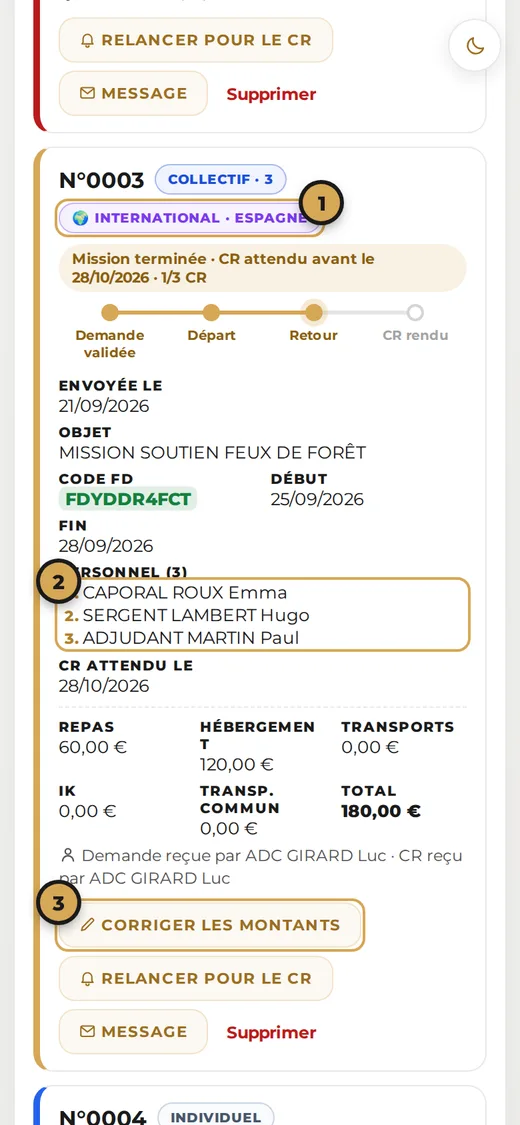
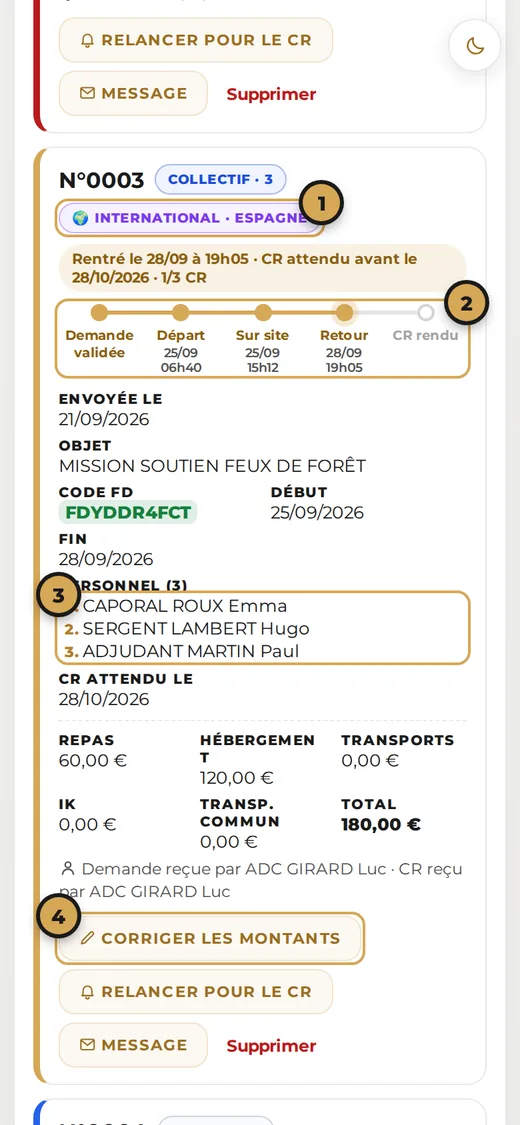
V162 : heures réelles de la mission dans le registre des OMR (#224)
* Registre : heures réelles de la mission (départ, sur site, retour) envoyées depuis Compte-rendu (en test)

Claude-Session: https://claude.ai/code/session_01NStkfCttCkWn8HaycQvLWX

* V162 : heures réelles de la mission dans le registre des OMR

- Compte-rendu envoie départ, arrivée sur site, départ du site et retour (mission partie d'une mise en route).
- Serveur : /api/registre/jalons, réservé au demandeur et aux personnes de la demande.
- Registre : frise en 5 étapes avec les heures réelles, étiquette en direct ; dates prévues sinon.
- Notice à jour. Suite complète : 594 vérifications.

Claude-Session: https://claude.ai/code/session_01NStkfCttCkWn8HaycQvLWX

---------

Changed region(s): [[0.0615, 0.2178, 0.9538, 1.0], [0.0615, 0.9333, 0.0923, 0.9956]]

diff --git a/notice/notice.js b/notice/notice.js
@@ -4,7 +4,7 @@
 // appli avec des personnages fictifs (notice/img), repères dorés ① ② ③ repris dans le texte.
 // {B} : chemin de la racine de TRIGONE (« ../ » depuis Compte-rendu).
 (function() {
-    var VERSION = 161;
+    var VERSION = 162;
     // Capture : un bouton, pour que le toucher l'agrandisse au lieu de tourner la page.
     function img(n) { return '<button type="button" class="n-capt" data-zoom="{B}notice/img/' + n + '.webp" aria-label="Agrandir la capture"><img src="{B}notice/img/' + n + '.webp" alt=""><i>⤢</i></button>'; }
     function r(n) { return '<span class="n-r">' + n + '</span>'; }
@@ -154,9 +154,9 @@
     ajouter(page('Mon espace', duo('40-chorus-choix', et(['Avec le rôle ASSIST CHORUS DT, l\'écran d\'accueil montre un 3<sup>e</sup> espace : ' + r(1) + ' <b>ASSIST CHORUS-DT</b>.', '<b>Mon espace</b> indique le nombre de demandes validées à traiter et de comptes-rendus reçus.', 'Touchez le logo pour ouvrir l\'espace.'])), 'chorus'));
     ajouter(page('L\'espace Chorus DT', duo('41-chorus-espace', et(['<b>Registre des OMR</b> : toutes les missions de l\'unité et où elles en sont.', r(1) + ' <b>Demandes de mise en route</b> : validées par les deux valideurs.', '<b>Comptes-rendus de mission</b> : envoyés au retour de mission.', '<b>Relever maintenant</b> : chercher tout de suite les nouveaux envois.'])), 'chorus'));
     ajouter(page('Traiter une demande', duo('42-chorus-dossier', et(['<b>Aperçu</b> : relire la demande.', '<b>Télécharger le PDF</b> : TRIGONE vérifie d\'abord les signatures et les pièces jointes, puis produit le PDF final (demande signée + NDS / DAF).', '<b>Contrôle détaillé</b> : le détail de la vérification.', '<b>Question</b> : demander une précision au missionnaire.', 'Créez l\'ordre de mission dans Chorus DT, puis marquez la demande <b>Traitée</b> : le missionnaire est prévenu.'])), 'chorus'));
-    ajouter(page('Registre des OMR', duo('43-registre', et(['Un seul tableau : <b>toutes les missions</b> de l\'unité, dans l\'ordre des n° OMR, avec des filtres d\'étape (À venir, En cours, CR attendu, En retard, CR rendus).', r(1) + ' <b>⛶ Plein écran</b> : le tableau sur tout l\'écran.', r(2) + ' <b>Rechercher</b> (n° OMR, objet, nom, code FD), codes FD <b>de votre unité</b> ou non, <b>période</b>. Code FD <b style="color:#15803d">vert</b> : votre unité ; <b style="color:#a16207">jaune</b> : une autre.', r(3) + ' La <b>frise</b> : demande validée → départ → retour → <b>CR rendu</b>. Départ et retour suivent les <b>dates de la demande</b> ; CR rendu, l\'arrivée du compte-rendu.', r(4) + ' <b>Relancer pour le CR</b> : un rappel dans la boîte du missionnaire.'])) +
+    ajouter(page('Registre des OMR', duo('43-registre', et(['Un seul tableau : <b>toutes les missions</b> de l\'unité, dans l\'ordre des n° OMR, avec des filtres d\'étape (À venir, En cours, CR attendu, En retard, CR rendus).', r(1) + ' <b>⛶ Plein écran</b> : le tableau sur tout l\'écran.', r(2) + ' <b>Rechercher</b> (n° OMR, objet, nom, code FD), codes FD <b>de votre unité</b> ou non, <b>période</b>. Code FD <b style="color:#15803d">vert</b> : votre unité ; <b style="color:#a16207">jaune</b> : une autre.', r(3) + ' La <b>frise</b> : demande validée → départ → sur site → retour → <b>CR rendu</b>, avec les <b>heures réelles</b> quand le missionnaire horodate dans Compte-rendu (sinon, les dates prévues).', r(4) + ' <b>Relancer pour le CR</b> : un rappel dans la boîte du missionnaire.'])) +
         savoir('Le registre est <b>commun à tous les assistants Chorus DT de l\'unité</b> et se met à jour <b>tout seul toutes les 30 s</b> : chacun voit la même chose, avec « reçu par ».'), 'chorus'));
-    ajouter(page('Registre : collectif, international, montants', duo('44-registre-collectif', et(['À côté du n° OMR : <b>INDIVIDUEL</b>, <b>COLLECTIF · n</b> (nombre de personnes) et ' + r(1) + ' <b>🌍 INTERNATIONAL</b> avec le pays, si la mission part à l\'étranger.', r(2) + ' Mission collective : le <b>personnel</b>, un nom par ligne.', 'Montants repris du compte-rendu. ' + r(3) + ' <b>✏ Corriger les montants</b> : la correction vaut pour tous les assistants ; montant corrigé en doré, total recalculé.', 'En bas : <b>total par rubrique</b> (repas, hébergement, transports, IK…) et <b>PDF de cette liste</b> (filtres compris).'])) +
+    ajouter(page('Registre : collectif, international, montants', duo('44-registre-collectif', et(['À côté du n° OMR : <b>INDIVIDUEL</b>, <b>COLLECTIF · n</b> et ' + r(1) + ' <b>🌍 INTERNATIONAL</b> avec le pays.', r(2) + ' En direct : <b>départ, arrivée sur site, retour</b> à l\'heure près, dès que le missionnaire appuie dans Compte-rendu (« Sur site depuis… », « Rentré le… »).', r(3) + ' Mission collective : le <b>personnel</b>, un nom par ligne.', r(4) + ' <b>✏ Corriger les montants</b> : la correction vaut pour tous les assistants ; montant corrigé en doré, total recalculé.', 'En bas : <b>total par rubrique</b> (repas, hébergement, transports, IK…) et <b>PDF de cette liste</b> (filtres compris).'])) +
         astuce('« Revenir aux montants du CR » annule une correction. Le compte-rendu reçu, lui, n\'est jamais modifié.'), 'chorus'));
     ajouter(page('Comptes-rendus reçus', duo('77-registre-cr', et(['Le compte-rendu arrive dans <b>Comptes-rendus de mission</b>, avec ses justificatifs.', '<b>PDF complet</b> : le compte-rendu et tous ses justificatifs à la suite, en un seul PDF.', 'Dans le registre, la ligne passe à <b>« Validé — CR rendu »</b> (frise en vert), avec repas, hébergement, transports, IK et total.', 'Marquez-le <b>Traité</b> : le missionnaire est prévenu.'])), 'chorus'));
 
@@ -170,7 +170,7 @@
     ajouter(page('Top départ', duo('63-cr-depart-top', et(['Tout est renseigné : au moment de partir, ' + r(1) + ' touchez <b>Départ en mission</b>.', 'L\'heure exacte est enregistrée (horodatage).', 'Déjà parti ? <b>« Vous êtes déjà parti ? Corriger l\'heure de départ »</b>.'])) +
         attention('Appuyez <b>au moment réel</b> du départ : les droits (repas, nuits) sont calculés à partir des horodatages.'), 'cr'));
     ajouter(page('Pendant la mission', duo('64-cr-mission-en-cours', et(['Écran <b>Mission en cours</b> : votre identité et l\'heure de départ.', r(1) + ' À l\'arrivée, touchez <b>Arrivée sur site</b>.', r(2) + ' Puis, au départ du site, touchez <b>Je quitte le site</b>.', r(3) + ' Oublié d\'appuyer ? <b>« Cliquer ici »</b> pour saisir l\'heure réelle.'])) +
-        savoir('Pas besoin de réseau. Avec la montre connectée, un appui sur la montre horodate l\'étape suivante.'), 'cr'));
+        savoir('Pas besoin de réseau. Mission partie d\'une mise en route : vos heures de départ, d\'arrivée sur site et de retour s\'affichent <b>dans le registre de l\'assistant Chorus DT</b> (dès que le réseau revient).'), 'cr'));
     ajouter(page('Je quitte le site', duo('66-cr-choix-depart', et(['Touchez <b>Je quitte le site</b> : l\'heure de départ est enregistrée.', '<b>Vers une autre destination</b> : une nouvelle mission s\'enchaîne (mission en plusieurs étapes).', '<b>Retour définitif — fin de mission</b> : vous rentrez.', 'À l\'arrivée chez vous, touchez <b>Arrivée finale</b> : l\'horodatage est terminé.'])), 'cr'));
     ajouter(page('Frais — repas et hébergement', duo('67-cr-frais-repas', et(['Écran <b>Frais de mission</b>, onglet <b>Repas & hébergement</b>, à remplir chez vous, sans limite de temps.', '<b>Repas midi / soir</b> : avec <b>−</b> et <b>+</b>, le nombre de repas <b>payants</b> (le maximum autorisé est indiqué).', '<b>Hébergement</b>, nuit par nuit : <b>Gratuit</b>, <b>Demande de réservation</b> ou <b>Payant</b>.', 'Le <b>total forfait estimé</b> se met à jour.'])), 'cr'));
     ajouter(page('Frais — trajets et validation', duo('67-cr-frais-recap', et(['Onglet <b>Trajets</b> : billets (horaires des gares, aéroports), indemnités kilométriques (la distance se calcule toute seule), transports en commun.', 'Onglet <b>Récap & valider</b> : durée, période, transports, repas, hébergement.', 'Touchez <b>Valider et voir le récap</b>.'])), 'cr'));

diff --git a/app.js b/app.js
@@ -1,7 +1,7 @@
 // ===================== TRIGONE MISE EN ROUTE — logique =====================
 var MER_VERSION = 1;          // version du format des fichiers .json échangés
 // Version du code de l'appli : à augmenter à chaque publication, avec « appCodeVersion » dans updates-manifest.json.
-var APP_CODE_VERSION = 209;
+var APP_CODE_VERSION = 210;
 // Numéro de version affiché (« V1 », « V2 »…) : repart de 1 au lancement de TRIGONE jumelé et suit ensuite chaque
 // publication. APP_CODE_VERSION reste le compteur interne des mises à jour (ne jamais le faire redescendre).
 var APP_VERSION_AFFICHEE = APP_CODE_VERSION - 48;
@@ -3830,22 +3830,42 @@ function MER_REG_ATTENDUS(x) { return Math.max(1, (x.personnes || []).length); }
 function MER_REG_RENDU(x) { return x.sansDemande || (x.crs || []).length >= MER_REG_ATTENDUS(x); }
 // Étape de la mission, ligne par ligne : à venir → en cours → CR attendu (ou en retard) → validé, CR rendu.
 function MER_REG_DATE(v, finJour) { if (!v) return null; var d = new Date(v); if (isNaN(d)) return null; if (finJour && !d.getHours() && !d.getMinutes()) d.setHours(23, 59, 59); return d; }
+// Heures réelles envoyées par le missionnaire depuis Compte-rendu (« 10/10/2026 07:42:00 ») : x.jalons.depart, surSite,
+// departSite, retour. Date, ou null.
+function MER_REG_JALON(x, k) {
+    var v = (x.jalons || {})[k], m = /^(\d{2})\/(\d{2})\/(\d{4})[ ,]+(\d{1,2}):(\d{2})/.exec(String(v || ''));
+    return m ? new Date(+m[3], +m[2] - 1, +m[1], +m[4], +m[5]) : null;
+}
+function MER_REG_QUAND(d) { return ('0' + d.getDate()).slice(-2) + '/' + ('0' + (d.getMonth() + 1)).slice(-2) + ' à ' + ('0' + d.getHours()).slice(-2) + 'h' + ('0' + d.getMinutes()).slice(-2); }
 function MER_REG_ETAT(x) {
     var n = (x.crs || []).length, att = MER_REG_ATTENDUS(x);
     if (MER_REG_RENDU(x)) return { cls: 'ok', txt: '✔ Validé — CR rendu' + (n > 1 ? 's' : '') };
     var ech = MER_REG_ECHEANCE(x), maint = new Date(), deb = MER_REG_DATE(x.debut), fin = MER_REG_DATE(x.fin, true);
     var part = n ? ' · ' + n + '/' + att + ' CR' : '';
+    // Heures réelles d'abord : parti mais pas rentré = en cours, quelles que soient les dates prévues.
+    var dr = MER_REG_JALON(x, 'depart'), rr = MER_REG_JALON(x, 'retour'), sr = MER_REG_JALON(x, 'surSite'), qr = MER_REG_JALON(x, 'departSite');
+    if (dr && !rr) return { cls: 'encours', txt: (qr ? 'Retour en route · parti du site le ' + MER_REG_QUAND(qr) : sr ? 'Sur site depuis le ' + MER_REG_QUAND(sr) : 'Mission en cours · parti le ' + MER_REG_QUAND(dr)) + part };
+    if (rr) {
+        if (ech && maint > ech) return { cls: 'retard', txt: '⚠ En retard (depuis le ' + ech.toLocaleDateString('fr-FR') + ')' + part };
+        return { cls: 'attente', txt: 'Rentré le ' + MER_REG_QUAND(rr) + ' · CR attendu' + (ech ? ' avant le ' + ech.toLocaleDateString('fr-FR') : '') + part };
+    }
     if (deb && maint < deb) return { cls: 'avenir', txt: 'Mission à venir · départ le ' + deb.toLocaleDateString('fr-FR') + part };
     if (fin && maint <= fin) return { cls: 'encours', txt: 'Mission en cours · retour le ' + fin.toLocaleDateString('fr-FR') + part };
     if (ech && maint > ech) return { cls: 'retard', txt: '⚠ En retard (depuis le ' + ech.toLocaleDateString('fr-FR') + ')' + part };
     return { cls: 'attente', txt: 'Mission terminée · CR attendu' + (ech ? ' avant le ' + ech.toLocaleDateString('fr-FR') : '') + part };
 }
 // Frise de la ligne : demande validée, départ, retour, compte-rendu rendu.
+// Avec les heures réelles du missionnaire (Compte-rendu) : départ, sur site, retour suivent ses appuis, heure affichée.
+// Sans elles : départ et retour suivent les dates prévues de la demande.
 function MER_REG_FRISE(x, e) {
-    var maint = new Date(), deb = MER_REG_DATE(x.debut), fin = MER_REG_DATE(x.fin, true);
-    var etapes = [['Demande validée', true], ['Départ', e.cls === 'ok' || (deb && maint >= deb)], ['Retour', e.cls === 'ok' || (fin && maint > fin)], ['CR rendu', e.cls === 'ok']];
+    var maint = new Date(), deb = MER_REG_DATE(x.debut), fin = MER_REG_DATE(x.fin, true), ok = e.cls === 'ok';
+    var J = { depart: MER_REG_JALON(x, 'depart'), surSite: MER_REG_JALON(x, 'surSite'), departSite: MER_REG_JALON(x, 'departSite'), retour: MER_REG_JALON(x, 'retour') }, reel = !!J.depart;
+    var etapes = reel ? [['Demande validée', true], ['Départ', true, J.depart], ['Sur site', !!(J.surSite || J.departSite || J.retour) || ok, J.surSite], ['Retour', !!J.retour || ok, J.retour], ['CR rendu', ok]]
+        : [['Demande validée', true], ['Départ', ok || (deb && maint >= deb)], ['Sur site', ok || (deb && maint >= deb)], ['Retour', ok || (fin && maint > fin)], ['CR rendu', ok]];
     var courante = -1; etapes.forEach(function(t, i) { if (t[1]) courante = i; });
-    return '<div class="MER-REG-FRISE ' + e.cls + '">' + etapes.map(function(t, i) { return '<span class="' + (t[1] ? 'fait' : '') + (i === courante ? ' ici' : '') + '"><i></i>' + t[0] + '</span>'; }).join('') + '</div>';
+    return '<div class="MER-REG-FRISE ' + e.cls + (reel ? ' reel' : '') + '"' + (reel ? '' : ' title="Départ et retour d\'après les dates prévues de la demande"') + '>' + etapes.map(function(t, i) {
+        return '<span class="' + (t[1] ? 'fait' : '') + (i === courante ? ' ici' : '') + '"><i></i>' + t[0] + (t[2] ? '<em>' + MER_REG_QUAND(t[2]).replace(' à ', '<br>') + '</em>' : '') + '</span>';
+    }).join('') + '</div>' + (reel ? '' : (e.cls === 'encours' ? '<p class="MER-HINT MER-REG-PREVU">Étapes d\'après les dates prévues : le missionnaire n\'a pas encore horodaté sa mission dans Compte-rendu.</p>' : ''));
 }
 // Montants d'une ligne : somme de ses comptes-rendus, puis corrections de l'assistant Chorus DT (x.corriges, communes à
 // tous les assistants ; le total est alors recalculé). brut : montants des comptes-rendus, sans les corrections.

diff --git a/tests/test-registre.js b/tests/test-registre.js
@@ -160,6 +160,17 @@ module.exports = async function() {
     await c2.evaluate(() => JUMELAGE_REGISTRE_SYNCHRO()); await attendre(1500);
     const reg2 = await c2.evaluate(p => JUMELAGE_REGISTRE().filter(x => String(x.omr).indexOf(p) === 0), pref);
     verifier(reg2.length === 1 && reg2[0].ref === d.id && (reg2[0].crs || []).length === 1 && !!reg2[0].recuPar, '2e assistant : même registre (ligne et CR reçus par le 1er ; ligne supprimée absente)');
+    // Heures réelles de la mission, envoyées par le missionnaire depuis Compte-rendu → registre des assistants, en direct.
+    const jal = { depart: '10/09/2026 07:42:00', surSite: '10/09/2026 11:05:00', departSite: '', retour: '' };
+    await m.evaluate(([o, r, j]) => JUMELAGE_JALONS(o, r, j), [d.omr, d.id, jal]); await attendre(800);
+    verifier(await m.evaluate(() => !JSON.parse(localStorage.getItem('trigone_jalons_file') || '{}') || !Object.keys(JSON.parse(localStorage.getItem('trigone_jalons_file') || '{}')).length), 'missionnaire : heures de départ et d\'arrivée sur site envoyées au registre');
+    await c2.evaluate(() => JUMELAGE_REGISTRE_SYNCHRO()); await attendre(1200);
+    const live = await c2.evaluate(r => { const x = JUMELAGE_REGISTRE().find(y => y.ref === r); const f = MER_REG_FRISE(x, MER_REG_ETAT(x)); return { j: (x.jalons || {}).surSite, f: f }; }, d.id);
+    verifier(live.j === jal.surSite && /Sur site/.test(live.f) && /10\/09<br>07h42/.test(live.f) && /10\/09<br>11h05/.test(live.f), 'assistant : la frise montre l\'heure réelle du départ et de l\'arrivée sur site');
+    verifier(await c2.evaluate(() => { const e = MER_REG_ETAT({ personnes: [{}], jalons: { depart: '10/10/2026 07:42:00', surSite: '10/10/2026 11:05:00' } }); return e.cls === 'encours' && /Sur site depuis le 10\/10 à 11h05/.test(e.txt); }), 'assistant : « Sur site depuis le … » tant que le missionnaire n\'est pas reparti');
+    const refusJ = await c2.evaluate(([o, r]) => { localStorage.removeItem('trigone_jalons_file'); return JUMELAGE_JALONS(o, r, { depart: '01/01/2026 00:00:00' }).then(() => JSON.parse(localStorage.getItem('trigone_jalons_file') || '{}')); }, [d.omr, d.id]);
+    await c2.evaluate(() => JUMELAGE_REGISTRE_SYNCHRO()); await attendre(1000);
+    verifier(!Object.keys(refusJ).length && await c2.evaluate(r => (JUMELAGE_REGISTRE().find(y => y.ref === r).jalons || {}).depart, d.id) === jal.depart, 'heures refusées à un compte qui n\'est pas sur la demande');
     verifier(await c2.evaluate(r => { const x = JUMELAGE_REGISTRE().find(y => y.ref === r); return MER_REG_MONTANTS(x).total === 252.3 && MER_REG_MONTANTS(x, true).total === 247.8; }, d.id), '2e assistant : voit la correction des montants du 1er (total corrigé)');
     await c2.evaluate(r => REGISTRE_CORRIGER_OK(r, true), d.id); await attendre(300);
     await c2.evaluate(() => JUMELAGE_REGISTRE_SYNCHRO()); await attendre(800);
@@ -207,6 +218,11 @@ module.exports = async function() {
     await m.evaluate(() => { document.querySelectorAll('.JUM-CHOIX,.JUM-NOUV').forEach(e => e.remove()); document.documentElement.classList.remove('jum-choix'); });
     verifier(await m.evaluate(x => { APPLIQUER_MISE_EN_ROUTE(x); return M.OMR === x.omr && M.MER_REF === x.id; }, d), 'Compte-rendu « À partir d\'une mise en route » : n° OMR et demande repris');
     verifier(await m.evaluate(() => { const o = MONTANTS_CR(M); return typeof o.total === 'number' && 'ik' in o && 'repas' in o; }), 'Compte-rendu : montants envoyés avec le CR (repas, hébergement, transports, IK, total)');
+    // Appui « Départ » dans Compte-rendu : l'heure part vers le registre (file d'envoi, renvoyée au prochain relevé).
+    const fileJ = await m.evaluate(() => { localStorage.removeItem('trigone_jalons_sig'); const av = window.JUMELAGE_JALONS; let vu = null; window.JUMELAGE_JALONS = (o, r, j) => { vu = { o, r, j }; return Promise.resolve(); };
+        const m0 = { OMR: M.OMR, MER_REF: M.MER_REF, DEBUT: M.DEBUT }; M.OMR = 'T-0001'; M.MER_REF = 'ref-test'; M.DEBUT = '10/10/2026 07:42:00'; JALONS_REGISTRE(); const deux = vu; vu = null; JALONS_REGISTRE();
+        Object.assign(M, m0); window.JUMELAGE_JALONS = av; return { deux, encore: vu }; });
+    verifier(fileJ.deux && fileJ.deux.o === 'T-0001' && fileJ.deux.j.depart === '10/10/2026 07:42:00' && fileJ.encore === null, 'Compte-rendu : l\'heure de départ est envoyée au registre, une seule fois tant qu\'elle ne change pas');
     verifier(!erreurs.length, 'aucune erreur JavaScript' + (erreurs.length ? ' : ' + erreurs.join(' | ') : ''));
     await b.close();
 };

diff --git a/jumelage.js b/jumelage.js
@@ -1018,7 +1018,7 @@
     // Dès l'ouverture (démarrage ou retour dans l'appli), TRIGONE vérifie s'il existe une publication plus récente
     // et se met à jour tout seul. Jamais au mauvais moment : uniquement sur l'accueil, sans fenêtre ouverte
     // (chaque appli le dit via JUMELAGE_PEUT_RECHARGER) ; sinon au prochain retour sur l'accueil.
-    var BUILD = 162, MAJ_DISPO = false, CLE_RECHARGE = 'trigone_recharge_build';
+    var BUILD = 163, MAJ_DISPO = false, CLE_RECHARGE = 'trigone_recharge_build';
     function peutRecharger() {
         if (document.visibilityState === 'hidden') return false;
         if (document.body && document.body.classList.contains('demo-active')) return false;
@@ -3312,6 +3312,27 @@
         }, Promise.resolve());
     }
     window.JUMELAGE_REGISTRE = function() { return registreLire(); };
+    // Heures réelles d'une mission (Compte-rendu : départ, arrivée sur site, départ du site, retour) envoyées au registre
+    // des assistants Chorus DT. Sans réseau ou demande pas encore au registre : gardées et renvoyées au prochain relevé.
+    var CLE_JALONS = 'trigone_jalons_file', jalonsEnCours = null;
+    window.JUMELAGE_JALONS = function(omr, mref, jalons) {
+        if (omr || mref) { var f = lireJSON(CLE_JALONS) || {}; f[omr || mref] = { omr: omr || '', mref: mref || '', jalons: jalons || {}, le: Date.now() }; ecrireTxt(CLE_JALONS, JSON.stringify(f)); }
+        if (!monCompte() || !navigator.onLine) return Promise.resolve(false);
+        if (jalonsEnCours) return jalonsEnCours.then(function() { return window.JUMELAGE_JALONS(); });
+        var f0 = lireJSON(CLE_JALONS) || {}, cles = Object.keys(f0);
+        jalonsEnCours = cles.reduce(function(suite, k) {
+            return suite.then(function() {
+                var x = f0[k];
+                return appelApi('registre/jalons', { methode: 'POST', corps: { omr: x.omr, mref: x.mref, jalons: x.jalons } }).then(function(r) {
+                    // Envoyé (ou mission plus au registre depuis 60 jours) : retiré de la file, s'il n'a pas changé entre-temps.
+                    if (r.ok || Date.now() - x.le > 60 * 86400000) { var f = lireJSON(CLE_JALONS) || {}; if (f[k] && f[k].le === x.le) { delete f[k]; ecrireTxt(CLE_JALONS, JSON.stringify(f)); } }
+                }, function(e) {
+                    if (e && e.statut === 403) { var f = lireJSON(CLE_JALONS) || {}; delete f[k]; ecrireTxt(CLE_JALONS, JSON.stringify(f)); }
+                });
+            });
+        }, Promise.resolve()).then(function() { jalonsEnCours = null; return true; });
+        return jalonsEnCours;
+    };
     window.JUMELAGE_REGISTRE_MAJ = function(ref, maj) {
         var l = registreLire();
         if (maj === null) l = l.filter(function(y) { return y.ref !== ref; });
@@ -3447,6 +3468,7 @@
             releveEnCours = null;
             window.JUMELAGE_REGISTRE_SYNCHRO();   // registre OMR commun aux assistants Chorus DT
             window.JUMELAGE_BOITE_ETATS();        // envois déjà traités sur un autre de mes appareils
+            if (lireTxt(CLE_JALONS).length > 2) window.JUMELAGE_JALONS();   // heures de mission en attente d'envoi
             if (releveARefaire) { releveARefaire = false; return window.JUMELAGE_RELEVER().then(function(m) { return n + m; }); }
             return n;
         });

diff --git a/worker.js b/worker.js
@@ -106,6 +106,9 @@ function registreFusion(a, b) {
     r.crs = registreUnirCrs(a.crs, b.crs);
     r.relances = Array.from(new Set((a.relances || []).concat(b.relances || []))).sort((x, y) => x - y);
     r.relancesQui = Object.assign({}, a.relancesQui || {}, b.relancesQui || {});
+    // Heures réelles de la mission (départ, sur site, départ du site, retour) : envoyées par le missionnaire lui-même ;
+    // la version du serveur l'emporte sur la copie d'un assistant.
+    if (a.jalons || b.jalons) r.jalons = Object.assign({}, b.jalons || {}, a.jalons || {});
     if (a.omr) r.omr = a.omr;
     return r;
 }
@@ -956,6 +959,32 @@ async function api(requete, env, url, ctx) {
         const r = (await db.prepare('SELECT ref, donnees, maj, supprime, par FROM registre WHERE unite = ? AND maj >= ? ORDER BY maj LIMIT 2000').bind(u, depuis).all()).results || [];
         return json({ ok: true, lignes: r.map(x => ({ ref: x.ref, supprime: !!x.supprime, par: x.par, maj: x.maj, ligne: x.supprime ? null : JSON.parse(x.donnees || '{}') })),
             dernier: r.reduce((m, x) => Math.max(m, x.maj), depuis) });
+    }
+    // Heures réelles de sa mission, envoyées par le missionnaire depuis Compte-rendu (appuis Départ, Arrivée sur site,
+    // Départ du site, Retour) : { omr, mref, jalons: { depart, surSite, departSite, retour } }. Seuls le demandeur et
+    // les personnes de la demande (matricule rattaché à leur compte) peuvent les donner.
+    if (chemin === 'registre/jalons' && methode === 'POST') {
+        const c = await requete.json().catch(() => ({}));
+        const omr = String(c.omr || '').slice(0, 30), mref = String(c.mref || '').slice(0, 64);
+        if (!omr && !mref) return erreur(400, 'Mission inconnue.');
+        const db = await baseBoite(env), u = UNITE_REGISTRE;
+        const ligne = await db.prepare("SELECT * FROM registre WHERE unite = ? AND supprime = 0 AND ((? <> '' AND omr = ?) OR (? <> '' AND (ref = ? OR mref = ?))) ORDER BY maj DESC LIMIT 1")
+            .bind(u, omr, omr, mref, mref, mref).first();
+        if (!ligne) return json({ ok: false, attente: true });   // demande pas encore au registre : l'appli réessaiera
+        const d = JSON.parse(ligne.donnees || '{}');
+        let autorise = d.mailDemandeur === moi.mail;
+        for (const p of (d.personnes || [])) {
+            if (autorise) break;
+            const nid = chiffresNid(p.nid);
+            if (nid && await kv.get('nid:' + await empreinteNid(env, nid)) === moi.mail) autorise = true;
+        }
+        if (!autorise) return erreur(403, 'Cette mission n\'est pas la vôtre.');
+        const j = {};
+        ['depart', 'surSite', 'departSite', 'retour'].forEach(k => { const v = String((c.jalons || {})[k] || '').slice(0, 30); if (/^[\d\/: ,.-]+$/.test(v)) j[k] = v; });
+        d.jalons = Object.assign({}, d.jalons || {}, j);
+        const le = Date.now();
+        await registreEcrireLigne(db, u, d, le, moi.mail);
+        return json({ ok: true });
     }
     // Remise à zéro du registre (assistant Chorus DT) : toutes les lignes marquées supprimées (les autres assistants les
     // retirent à leur prochaine relève), et la numérotation OMR repart à 0001 sans préfixe.

diff --git a/cr/index.html b/cr/index.html
@@ -11,7 +11,7 @@
 <link rel="manifest" href="../manifest.json">
 <meta name="apple-mobile-web-app-title" content="TRIGONE">
 <meta name="application-name" content="TRIGONE">
-<script src="../jumelage.js?v=162"></script>
+<script src="../jumelage.js?v=163"></script>
 <link rel="icon" type="image/png" sizes="192x192" href="icon-192.png?v=3">
 <link rel="apple-touch-icon" href="apple-touch-icon.png?v=3">
 <link href="../fonts/montserrat.css" rel="stylesheet"><!-- police hébergée avec TRIGONE : identique hors ligne -->
@@ -7279,6 +7279,16 @@ window.JUMELAGE_PEUT_RECHARGER = function() {
     var visible = function(id) { var el = document.getElementById(id); return el && !el.classList.contains('HIDDEN'); };
     return visible('P0') && ECRAN_LIBRE() && !visible('PIN-OVERLAY') && !visible('MER-LISTE-OVERLAY') && !DEMO_MODE_ACTIF;
 };
+// Heures réelles de la mission (départ, arrivée sur site, départ du site, retour) → registre des assistants Chorus DT,
+// pour une mission partie d'une mise en route (n° OMR ou référence de la demande). Envoyées à chaque changement.
+function JALONS_REGISTRE() {
+    if (DEMO_MODE_ACTIF || M.IS_PAX || !window.JUMELAGE_JALONS || !(M.OMR || M.MER_REF)) return;
+    var j = { depart: M.DEBUT || '', surSite: M.ARR_SITE || '', departSite: M.DEP_SITE || '', retour: M.FIN_RETOUR_HORODATE || '' };
+    if (!j.depart) return;
+    var sig = (M.OMR || M.MER_REF) + '|' + [j.depart, j.surSite, j.departSite, j.retour].join('|');
+    try { if (localStorage.getItem('trigone_jalons_sig') === sig) return; localStorage.setItem('trigone_jalons_sig', sig); } catch (e) {}
+    window.JUMELAGE_JALONS(M.OMR || '', M.MER_REF || '', j);
+}
 function SAVE_STATE() {
     // Filet de sécurité absolu : pendant la démonstration, M contient des données d'exemple, jamais
     // les vraies. Tant que ce drapeau est actif, aucune écriture ne doit atteindre le stockage réel.
@@ -7289,6 +7299,7 @@ function SAVE_STATE() {
     // visibilitychange au moment du rechargement qui suit. Sans ce garde-fou, la mission tout juste
     // effacée réapparaissait après le rechargement, ramenant le missionnaire sur l'écran d'envoi.
     if (MISSION_FERMETURE_EN_COURS) return;
+    try { JALONS_REGISTRE(); } catch (e) {}
     try {
         if (HAS_ACTIVE_MISSION_DATA(M)) {
             localStorage.setItem('mission_data', JSON.stringify(CLONE_M_FOR_STORAGE(M)));
@@ -11511,7 +11522,7 @@ function SET_UPDATE_SEEN_VERSION(cle, version) {
 // Numéro de version du code de CETTE appli. À augmenter à chaque publication, en même temps que
 // « appCodeVersion » dans updates-manifest.json : c'est ce qui permet à l'appli de savoir si elle est
 // déjà à jour (elle affiche alors les « Nouveautés ») ou en retard (elle demande la mise à jour).
-var APP_CODE_VERSION = 259;
+var APP_CODE_VERSION = 260;
 // Jumelage : numéro affiché « V1, V2… » ; APP_CODE_VERSION reste le compteur interne des mises à jour
 // (à augmenter avec appCodeVersion de cr/updates-manifest.json, sans jamais le faire redescendre).
 var APP_VERSION_AFFICHEE = APP_CODE_VERSION - 98;

diff --git a/index.html b/index.html
@@ -5,7 +5,7 @@
 <meta name="viewport" content="width=device-width, initial-scale=1, viewport-fit=cover">
 <title>TRIGONE — Mise en route</title>
 <link rel="manifest" href="manifest.json">
-<script src="jumelage.js?v=162"></script>
+<script src="jumelage.js?v=163"></script>
 <meta name="theme-color" content="#ecebe7">
 <link href="fonts/montserrat.css" rel="stylesheet"><!-- police hébergée avec TRIGONE : identique hors ligne -->
 <link rel="apple-touch-icon" href="apple-touch-icon.png?v=3">
@@ -542,6 +542,9 @@ body.dark-mode .MER-FD-UNITE.unite { color: #4ade80; } body.dark-mode .MER-FD-UN
 .MER-REG-FRISE i { position: absolute; top: 1px; left: 50%; width: 13px; height: 13px; margin-left: -6.5px; border-radius: 50%; background: #fff; border: 2.5px solid #d4d4d4; z-index: 1; box-sizing: border-box; }
 .MER-REG-FRISE span.fait { color: #8a5f12; } .MER-REG-FRISE span.fait::before { background: #d6a756; } .MER-REG-FRISE span.fait i { background: #d6a756; border-color: #d6a756; }
 .MER-REG-FRISE span.ici i { box-shadow: 0 0 0 4px rgba(214,167,86,0.25); }
+.MER-REG-FRISE em { display: block; font-style: normal; font-weight: 600; font-size: 0.92em; color: #525252; margin-top: 1px; white-space: nowrap; }
+body.dark-mode .MER-REG-FRISE em { color: #bdbdbd; }
+.MER-REG-PREVU { margin: -8px 0 10px !important; font-size: 0.7rem !important; font-style: italic; }
 .MER-REG-FRISE.ok span.fait { color: #15803d; } .MER-REG-FRISE.ok span.fait::before, .MER-REG-FRISE.ok span.fait i { background: #15803d; border-color: #15803d; }
 .MER-REG-FRISE.retard span.ici i { background: #b91c1c; border-color: #b91c1c; box-shadow: 0 0 0 4px rgba(185,28,28,0.2); } .MER-REG-FRISE.retard span.ici { color: #b91c1c; }
 .MER-REG-FRISE.encours span.ici i { background: #2563eb; border-color: #2563eb; box-shadow: 0 0 0 4px rgba(37,99,235,0.2); } .MER-REG-FRISE.encours span.ici { color: #1d4ed8; }
@@ -1023,6 +1026,6 @@ body.dark-mode .MER-BASCULE-ROLE { background: rgba(255,255,255,0.08); } body.da
     </div>
   </div>
 </div>
-<script src="app.js?v=162"></script>
+<script src="app.js?v=163"></script>
 </body>
 </html>

diff --git a/cr/sw.js b/cr/sw.js
@@ -1,6 +1,6 @@
 // Copie jumelée dans TRIGONE Mise en route (dossier cr/) : caches préfixés « trigone-cr- » ; ceux de
 // Mise en route (« trigone-mise-en-route- ») ne sont jamais effacés d'ici.
-const CACHE_NAME = 'trigone-cr-v551';
+const CACHE_NAME = 'trigone-cr-v552';
 const ASSETS = [
   './',
   './manifest.json',

diff --git a/sw.js b/sw.js
@@ -1,4 +1,4 @@
-const CACHE_NAME = 'trigone-mise-en-route-v216';
+const CACHE_NAME = 'trigone-mise-en-route-v217';
 const ASSETS = [
   './',
   './manifest.json',
